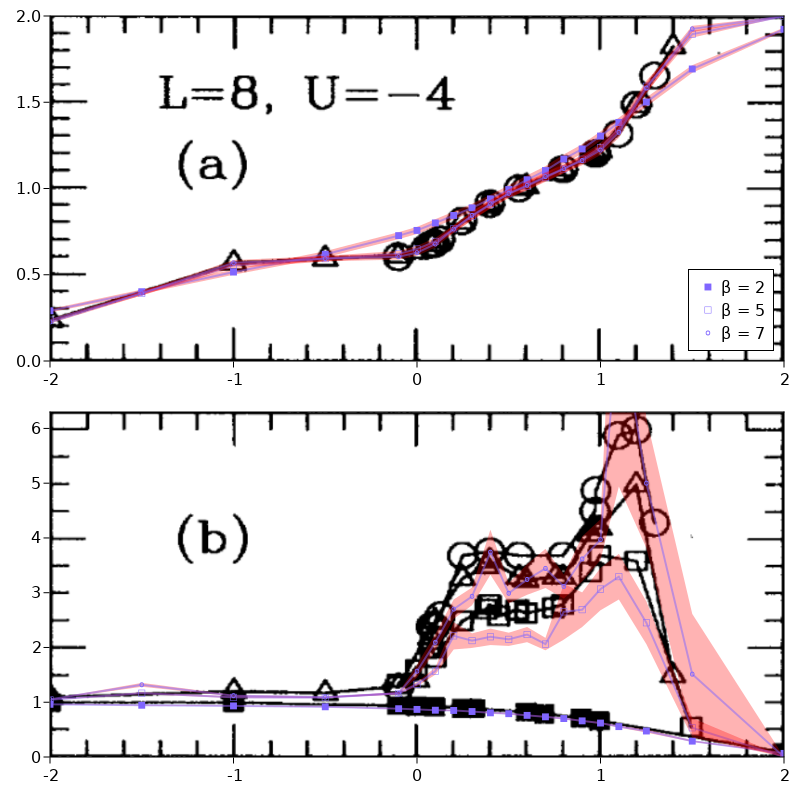
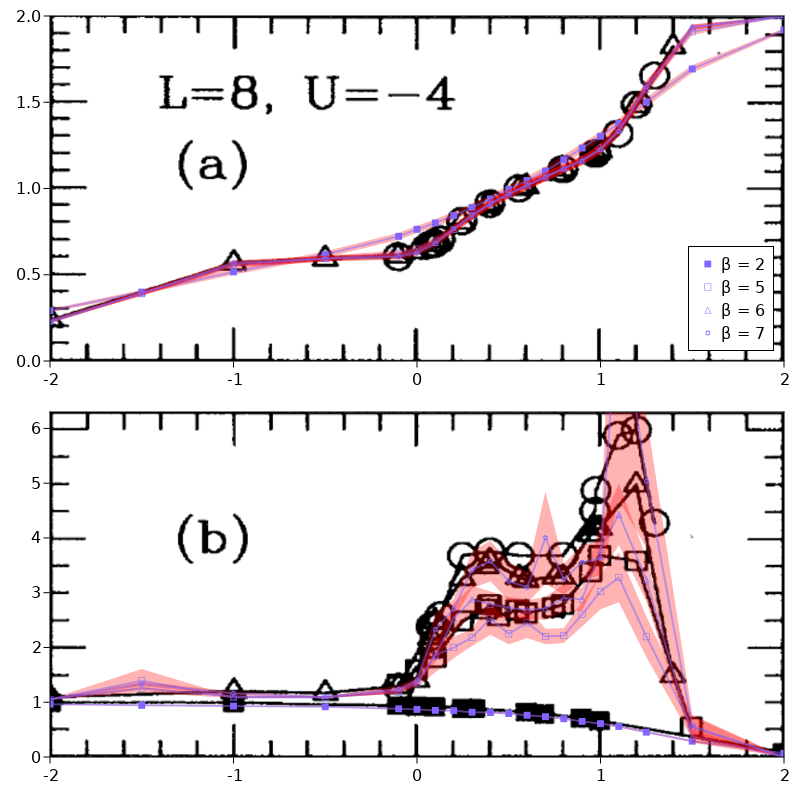
add more comparisons

diff --git a/docs/src/examples/triangular_Hubbard.md b/docs/src/examples/triangular_Hubbard.md
@@ -2,7 +2,7 @@
 
 This example implements the model from the paper [Attractive Hubbard model on a triangular lattice](https://journals.aps.org/prb/abstract/10.1103/PhysRevB.48.3976). This also serves as a cross-check for the DQMC and a few measurements, such as pairing correlations and occupations. 
 
-#### Simulation
+### Simulation
 
 In the paper simulations were done with $500-1000$ sweeps and $\Delta\tau = 0.125$. The first figure is done with interaction strength $U = -4$, linear system size $L = 4$ at $\beta = 2, 5, 7$ for varying $\mu$. The following simulations should take about 2 minutes.
 
@@ -11,13 +11,14 @@ using MonteCarlo
 
 betas = (2.0, 5.0, 7.0)
 mus = vcat(-2.0, -1.5, -1.25:0.05:-1.0, -0.8:0.2:0.8, 0.9:0.05:1.25, 1.5, 2.0)
-lattice = TriangularLattice(6)
+lattice = TriangularLattice(4)
 dqmcs = []
 
 counter = 0
+N = length(mus) * length(betas)
 @time for beta in betas, mu in mus
     counter += 1
-    print("\r[", lpad("$counter", 2), "/81]")
+    print("\r[", lpad("$counter", 2), "/$N]")
     m = HubbardModelAttractive(l = lattice, t = 1.0, U = 4.0, mu = mu)
     dqmc = DQMC(
         m, beta = beta, delta_tau = 0.125, safe_mult = 8, 
@@ -33,13 +34,12 @@ counter = 0
 end
 ```
 
-#### Processing Data
+### Processing Data
 
 After running all the simulations we need to do a little bit of post-processing on the measured data. 
 
 ```julia
-betas = (2.0, 5.0, 7.0)
-mus = vcat(-2.0, -1.5, -1.25:0.05:-1.0, -0.8:0.2:0.8, 0.9:0.05:1.25, 1.5, 2.0)
+N = length(mus)
 occs = []
 Δoccs = []
 pcs = []
@@ -50,8 +50,8 @@ for i in 0:2
     # Taking the mean (std_error) of a LogBinner will return the Monte Carlo 
     # average (error). Occupation measurements happen per site, so we need 
     # another mean afterwards. 
-    _occs = [2 * mean(mean(dqmcs[27*i + j][:occ])) for j in 1:27]
-    doccs = [2 * mean(std_error(dqmcs[27*i + j][:occ])) for j in 1:27]
+    _occs = [2 * mean(mean(dqmcs[N*i + j][:occ])) for j in 1:N]
+    doccs = [2 * sqrt(mean(std_error(dqmcs[N*i + j][:occ]).^2)) for j in 1:N]
     push!(occs, _occs)
     push!(Δoccs, doccs)
 
@@ -64,14 +64,14 @@ for i in 0:2
     # For s-wave symmetry these weights are always (1, 0, ..., 0) (only vector 0).
     # To match the paper the index i should just be summed over. This is 
     # equivalent to a q=0 Fourier transform.
-    _pcs = [sum(mean(dqmcs[27*i + j][:PC])[:, 1, 1]) for j in 1:27]
-    dpcs = [sum(std_error(dqmcs[27*i + j][:PC])[:, 1, 1]) for j in 1:27]
+    _pcs = [sum(mean(dqmcs[N*i + j][:PC])[:, 1, 1]) for j in 1:N]
+    dpcs = [sqrt(sum(std_error(dqmcs[N*i + j][:PC])[:, 1, 1].^2)) for j in 1:N]
     push!(pcs, _pcs)
     push!(Δpcs, dpcs)
 end
 ```
 
-#### Plotting
+### Plotting
 
 With the data in a processed form we can now plot it. To make comparison easier, we plot our data directly over figure 1 from our [reference](https://journals.aps.org/prb/abstract/10.1103/PhysRevB.48.397).
 
@@ -117,7 +117,7 @@ CairoMakie.save(joinpath(p, "docs/src/examples/assets/fig1_comparison.png"), fig
 
 ![](assets/fig1_comparison.png)
 
-#### Other runs
+### Other runs
 
 The [paper](https://journals.aps.org/prb/abstract/10.1103/PhysRevB.48.3976) has two more versions of the above plot for system sizes $L = 6$ and $L = 8$. These show significantly different results.
 
@@ -125,6 +125,65 @@ For $L = 6$ we use `mus = vcat(-2.0:0.25:-0.25, -0.1:0.1:1.1, 1.25, 1.5, 2.0)` w
 
 ![](assets/fig2_comparison.png)
 
-For $L=8$ we use `mus = vcat(-2.0:0.5:-0.5, -0.1:0.1:1.1, 1.25, 1.5, 2.0)`. The resulting simulation takes about 25min.
+For $L=8$ we use `mus = vcat(-2.0:0.5:-0.5, -0.1:0.1:1.1, 1.25, 1.5, 2.0)` and `betas = (2.0, 5.0, 6.0, 7.0)`. The resulting simulation takes about 30min.
 
 ![](assets/fig3_comparison.png)
+
+#### Charge Density Structure Factor
+
+The paper also investigates the charge density structure factor as a function of reciprocal lattice vectors $q$. Usually this could be calculated from the charge density correlation measurement in MonteCarlo.jl which measures $\langle n_i n_j \rangle$. In this case however the paper to use only part of that measurement.
+
+To show what measurement we are taking, let us go through the derivation for charge density correlations. We will consider a term with variable spin $s$. 
+
+```math
+\begin{aligned}
+	\langle n_{i, s} n_{j, s^\prime} \rangle
+	&= \langle c_{i, s}^\dagger c_{i, s} c_{j, s^\prime}^\dagger c_{j, s^\prime} \rangle \\
+	&= \langle c_{i, s}^\dagger c_{i, s} \rangle \langle c_{j, s^\prime}^\dagger c_{j, s^\prime} \rangle + \langle c_{i, s}^\dagger c_{j, s^\prime} \rangle \langle c_{i, s} c_{j, s^\prime}^\dagger \rangle\\
+	&= (1 - G_{ii}^{ss}) (1 - G_{jj}^{s^\prime s^\prime}) + (\delta_{ij} \delta_{ss^\prime} - G_{ji}^{s^\prime s}) G_{ij}^{ss^\prime}
+\end{aligned}
+```
+
+Here we expanded the term into creation and annihilation operators, applied Wicks theorem and finally used $G_{ij}^{ss^\prime} = \langle c_i c_j^\dagger \rangle$ to express the term with Greens function elements. (We note that expectation values of two creation or two annihilation operators are always zero in DQMC and therefore dropped.) For the attractive Hubbard model, greens function elements with different spins $G_{ij}^{ss^\prime}$ are zero and $G_{ij}^{\uparrow\uparrow} = G_{ij}^{\downarrow\downarrow}$. Thus the full expectation value is given by
+
+\begin{equation}
+\langle n_i n_j \rangle = 4 (1 - G_{ii}^{ss}) (1 - G_{jj}^{s^\prime s^\prime}) + 2 (\delta_{ij} \delta_{ss^\prime} - G_{ji}^{s^\prime s}) G_{ij}^{ss^\prime}
+\end{equation}
+
+This is what is implemented in MonteCarlo.jl. The paper on the other hand seems to only use the second term of this, and double the prefactor. Thus we will need to implement our own measurement. 
+
+```julia
+function my_kernel(::DQMC, ::HubbardModelAttractive, ij::NTuple{2}, G::AbstractArray)
+    i, j = ij
+    4 * (I[j, i] - G[j, i]) * G[i, j]
+end
+
+dqmc[:CDC] = MonteCarlo.Measurement(mc, model, Greens, EachSitePairByDistance, my_kernel)
+```
+
+In the above, `Greens` is a greens function iterator used by the measurement. It yields a equal time greens function to the measurement which is eventually passed as `G` to the kernel. `EachSitePairByDistance` defines which lattice indices are passed to the kernel and how they are saved. In this case i and j run through each site index independently and the results are summed such that we have one value per unique distance vector.
+
+With that measurement we can now compare to the paper. We simulate with $L = 6, 8$, $\beta = 8$, $\mu = 0$ and $|U| = 4$, which should take about a minute.
+
+To match the paper we simulate $L = 6, 8$, $\beta = 8$, $\mu = 0$ and $U = -4$ with the new measurement. This should take about a minute. After the simulation we compute the fourier transform at various $q$ with
+
+```julia
+qs = vcat(
+    range(Float64[0, 0],   Float64[pi, 0], length=10),
+    range(Float64[pi, 0],  Float64[pi, pi], length=10),
+    range(Float64[pi, pi], Float64[0, 0], length=10),
+)
+ys = map(dqmcs) do dqmc
+    MonteCarlo.fourier_transform(
+        qs, directions(MonteCarlo.lattice(dqmc)), mean(dqmc[:CDC])
+    ) |> real
+end
+```
+
+![](assets/fig6_comparison.png)
+
+#### Magnetic Susceptibility
+
+The uniform susceptibility featured in figure 7 of the paper can be reproduced more easily. For it we need to run our simulation with a `spin_density_susceptibility(dqmc, model, :z)` measurement. The result will again be in a partially summed per-distance-vector form. The $q=0$ Fourier transform follows from simple summation. With `L = 6` and `betas = [1.0, 2.0, 4.0, 5.0, 6.0, 7.0, 8.0]` this simulation should take about a minute.
+
+![](assets/fig7_comparison.png)
